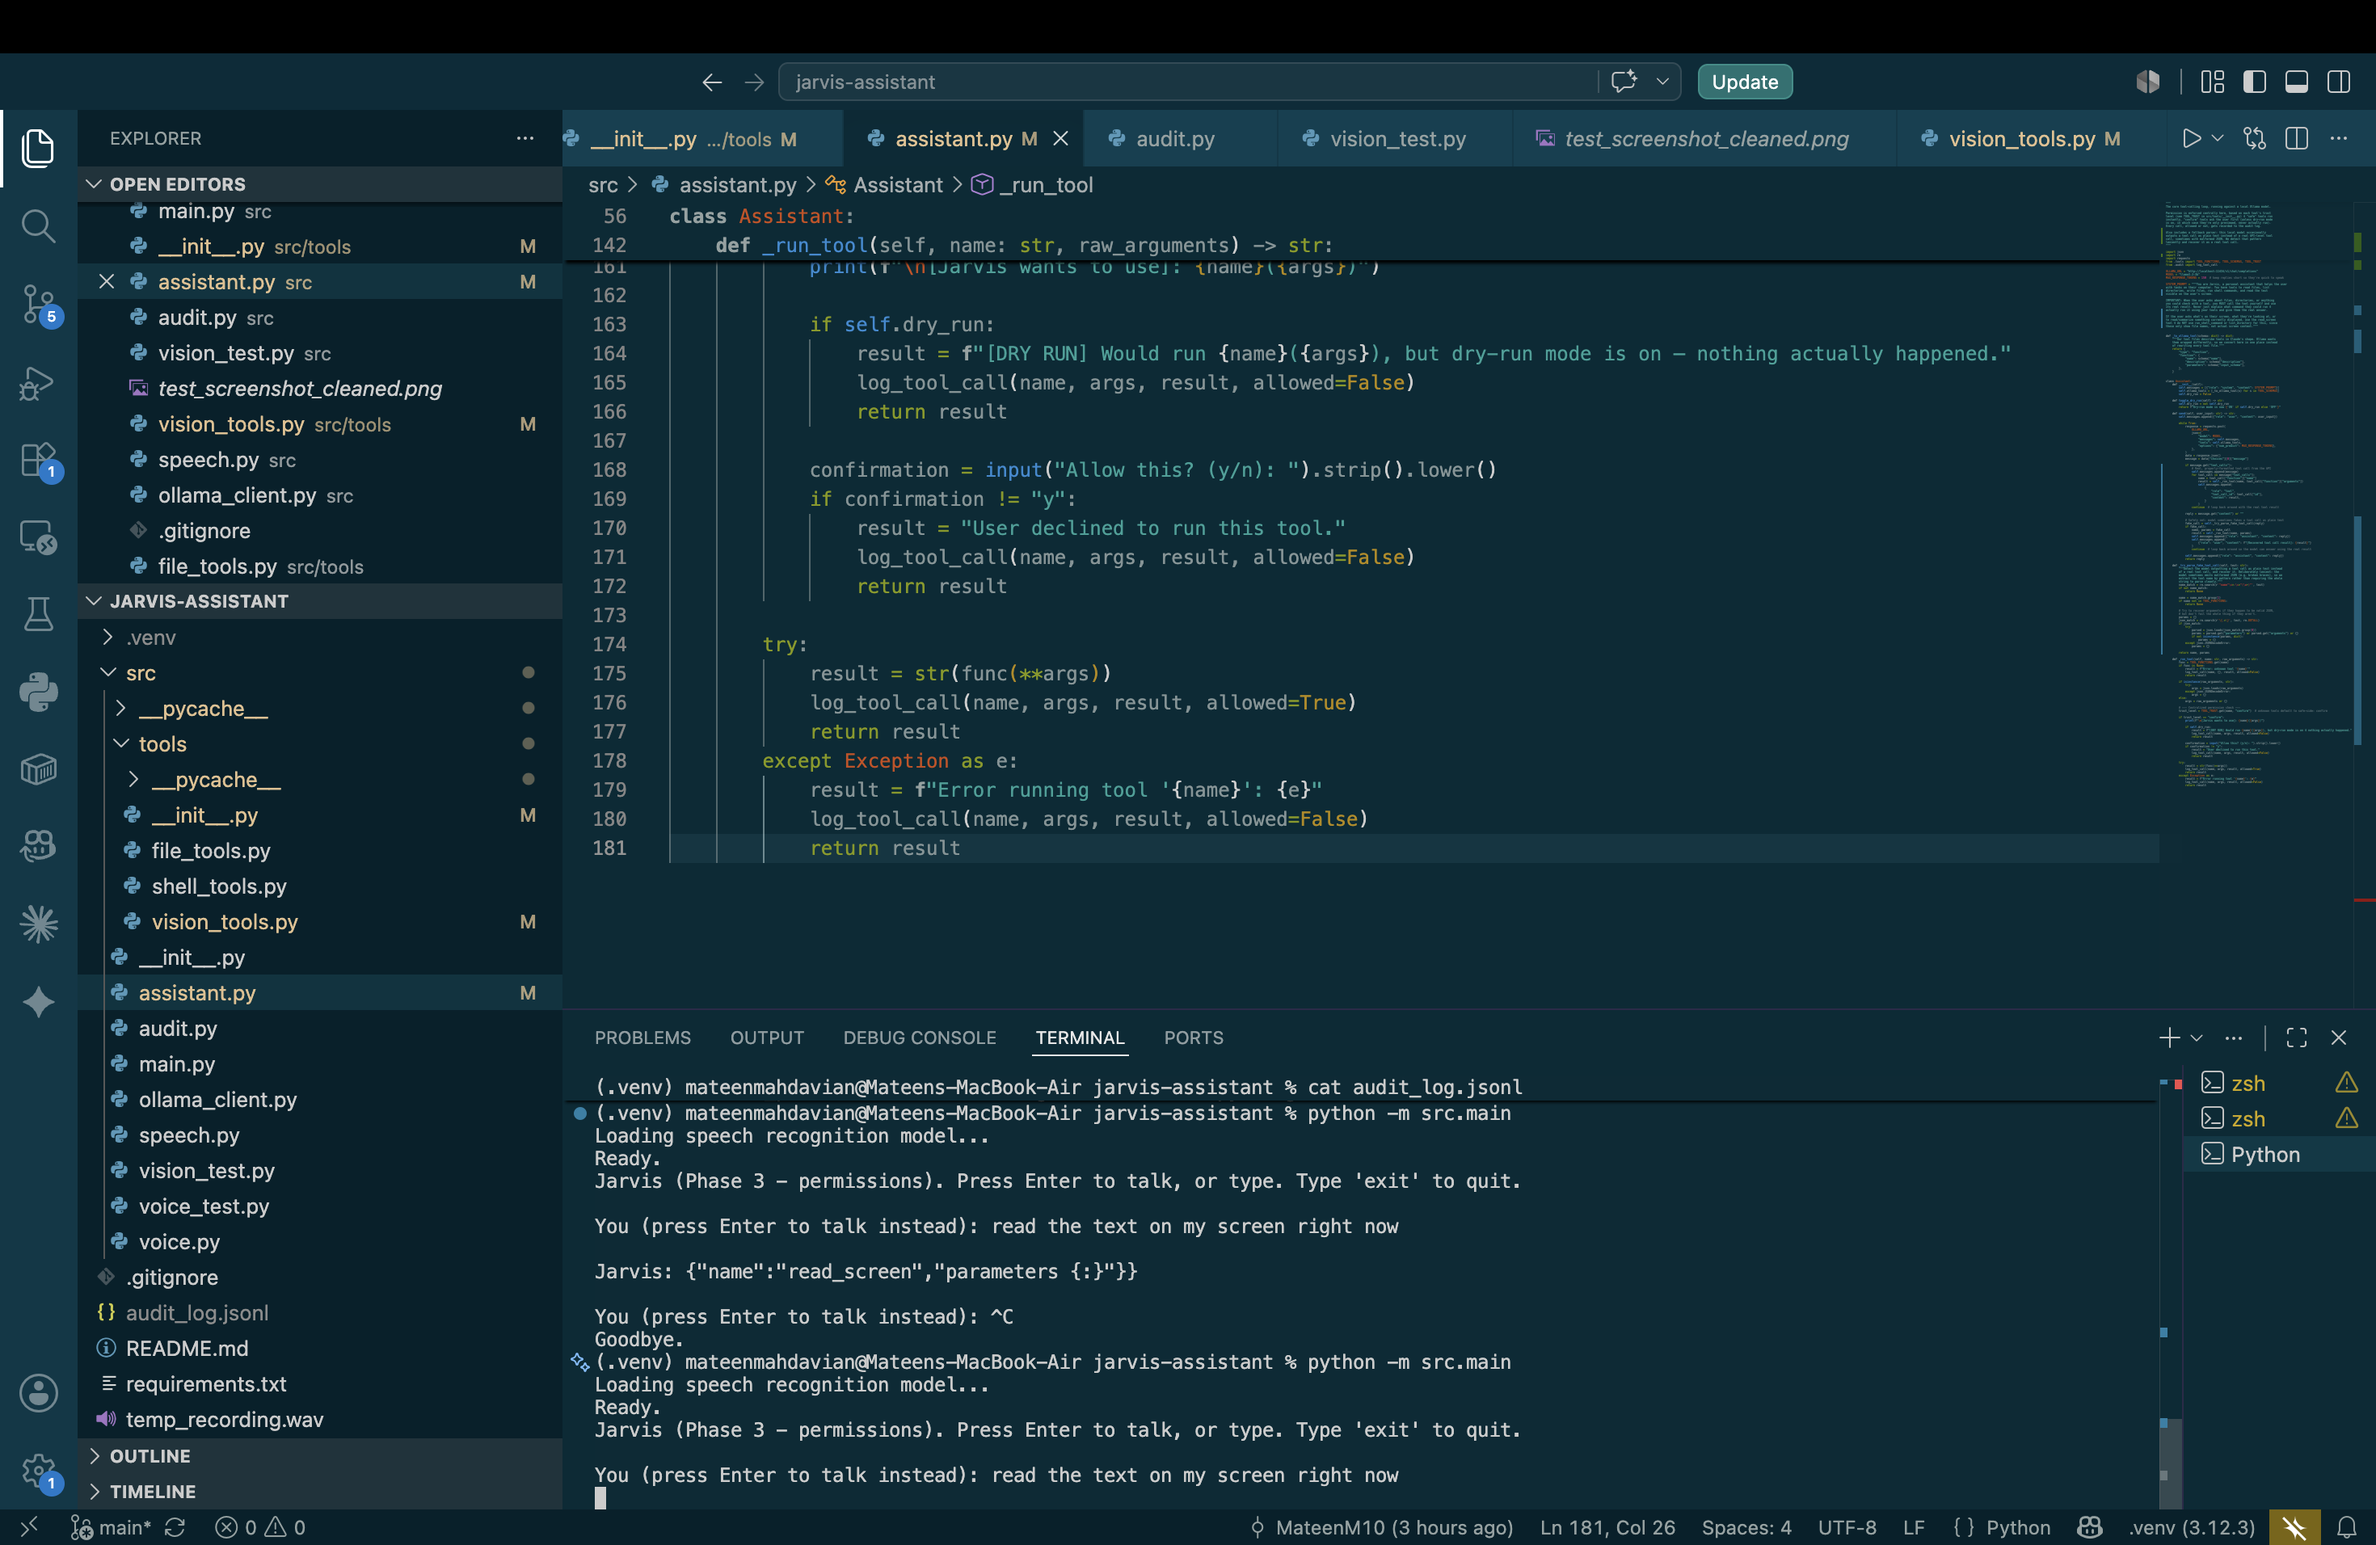
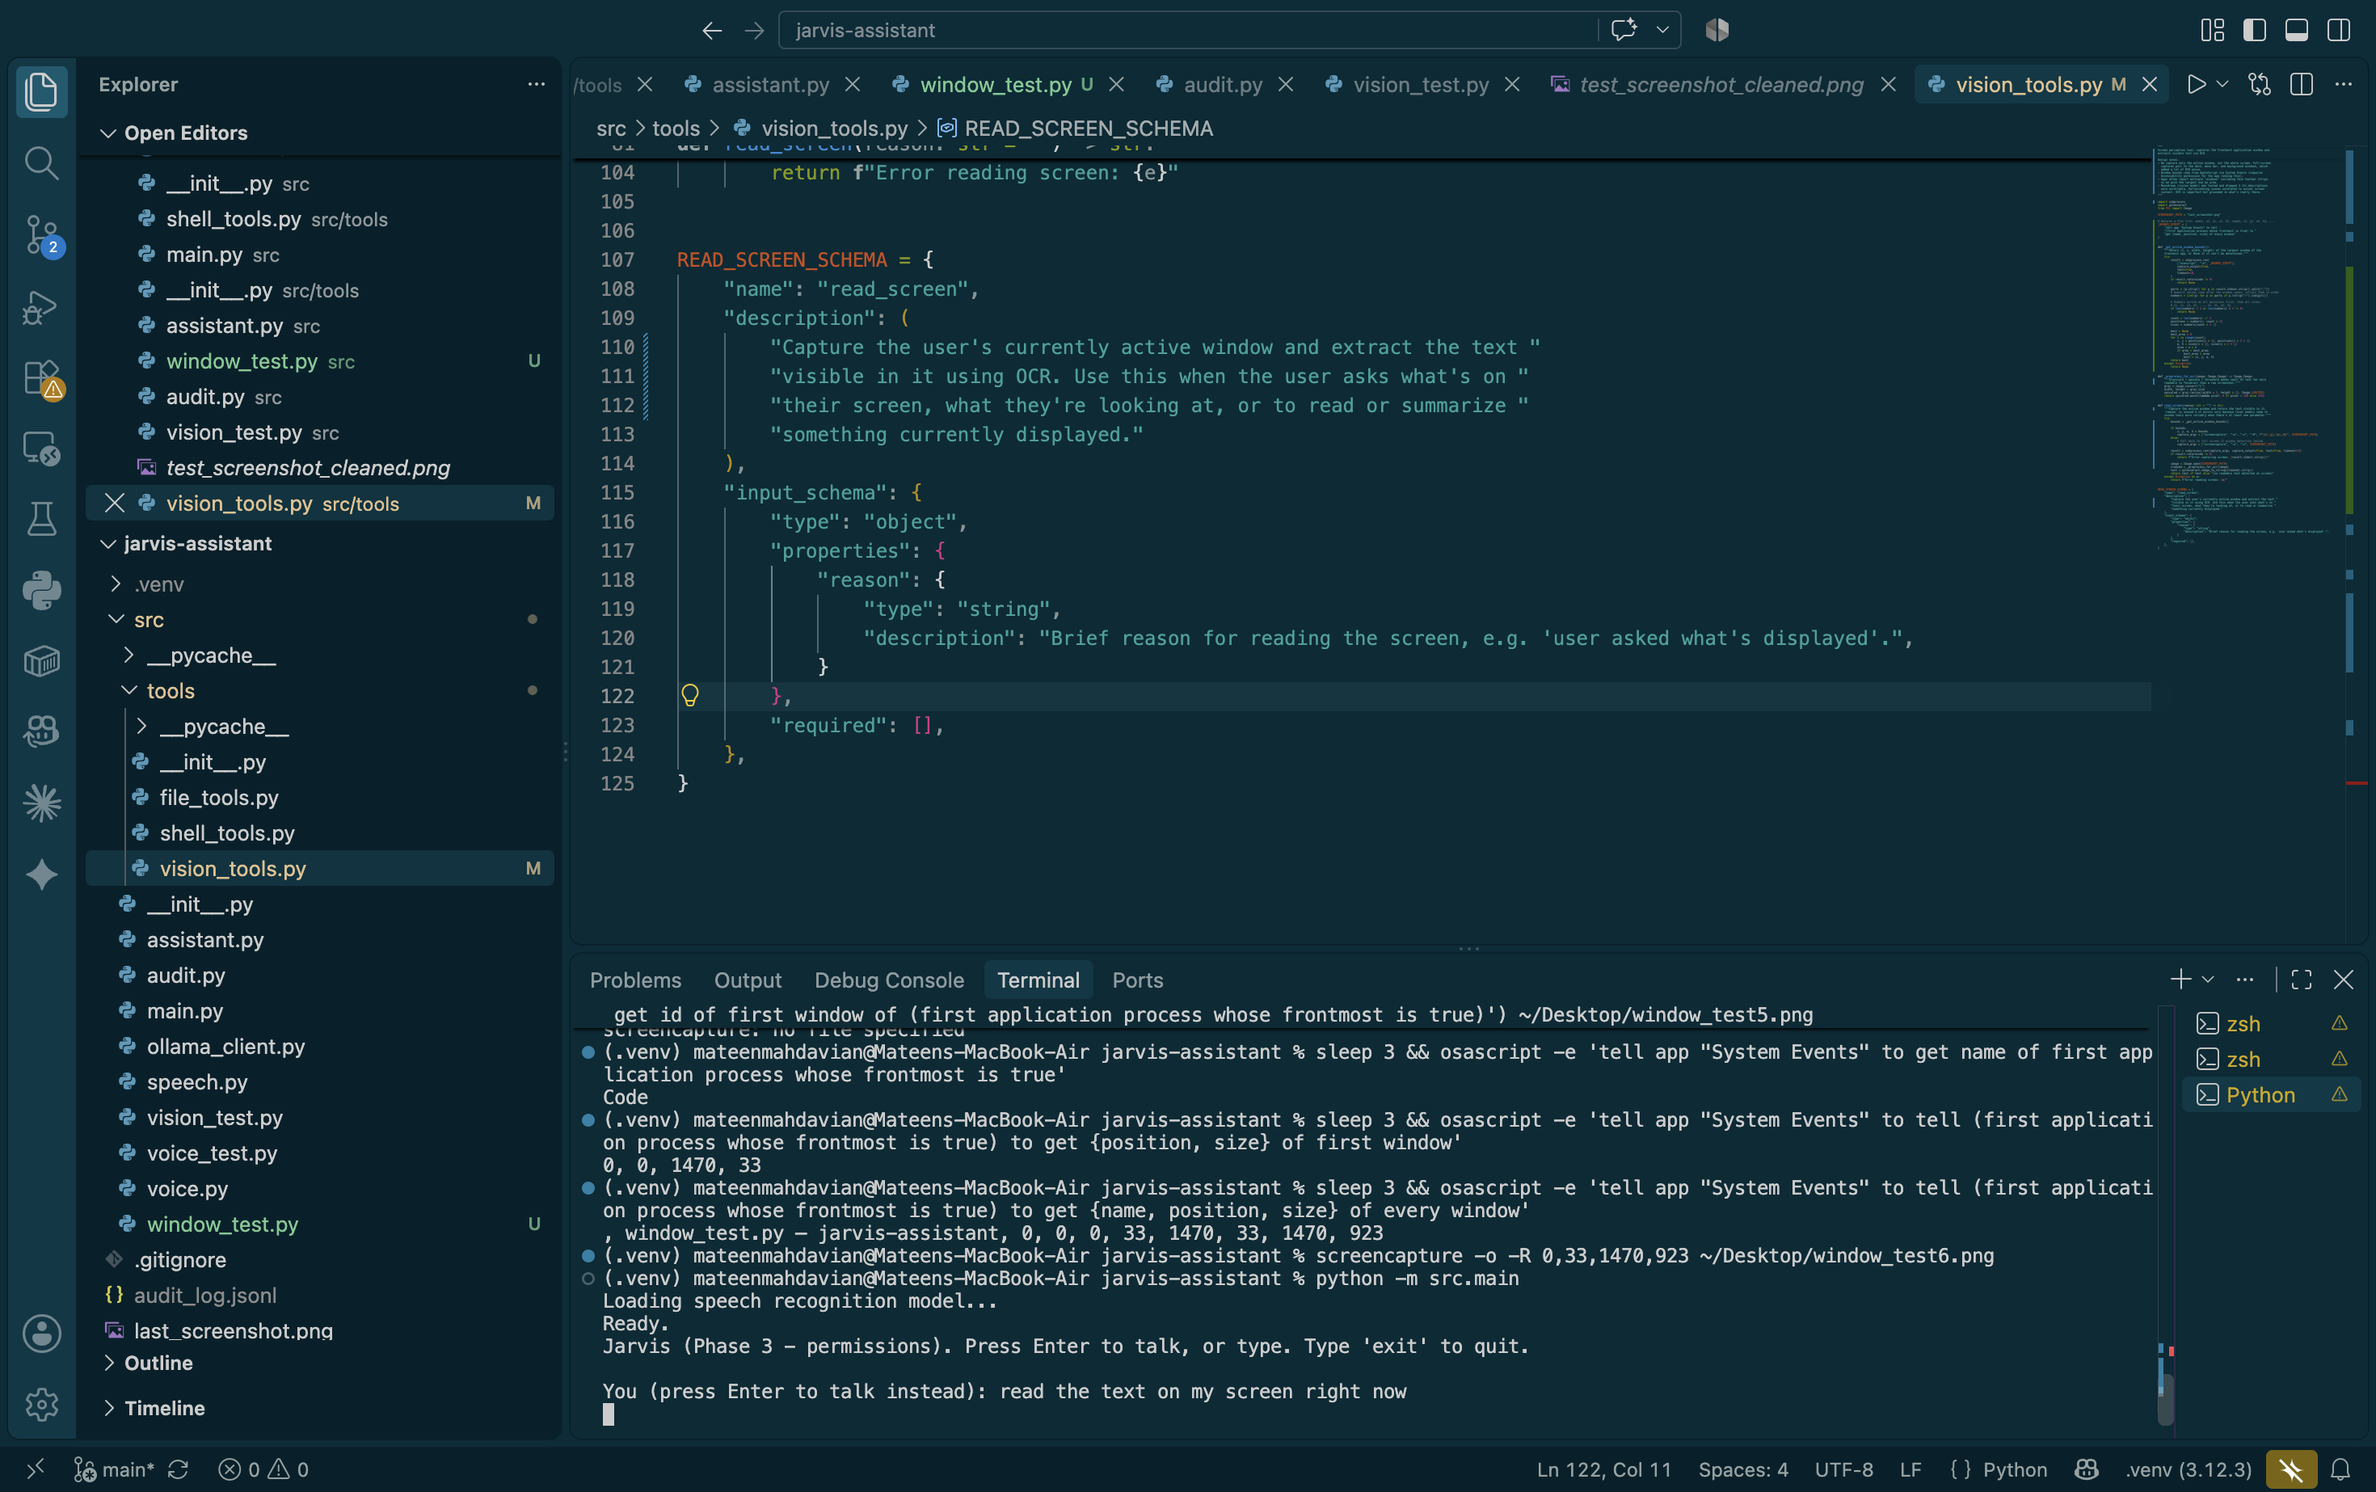
capture active window only for cleaner OCR results

diff --git a/src/tools/vision_tools.py b/src/tools/vision_tools.py
@@ -1,25 +1,77 @@
 """
-Screen perception tool: takes a screenshot and extracts visible text
-via OCR. Moondream (vision model) was tested and dropped — its
-descriptions were unreliable, hallucinating scenes unrelated to the
-actual screen content. OCR, while imperfect, extracts real text
-reliably enough to be useful.
+Screen perception tool: captures the frontmost application window and
+extracts visible text via OCR.
+
+Design notes:
+- We capture only the active window, not the whole screen. Full-screen
+  captures pull in the dock, menu bar, and background windows, which
+  added a lot of OCR noise.
+- Window bounds come from AppleScript via System Events (requires
+  Accessibility permission for the app running this).
+- Apps often report multiple "windows" including thin toolbar strips,
+  so we pick the largest one by area.
+- Moondream (vision model) was tested and dropped — its descriptions
+  were unreliable, hallucinating scenes unrelated to actual screen
+  content. OCR is imperfect but grounded in what's really there.
 """
 
-import pyautogui
+import subprocess
 import pytesseract
 from PIL import Image
 
 SCREENSHOT_PATH = "last_screenshot.png"
 
+# Returns a flat list: name1, x1, y1, w1, h1, name2, x2, y2, w2, h2, ...
+_BOUNDS_SCRIPT = (
+    'tell app "System Events" to tell '
+    "(first application process whose frontmost is true) to "
+    "get {name, position, size} of every window"
+)
+
+
+def _get_active_window_bounds():
+    """Return (x, y, width, height) of the largest window of the
+    frontmost app, or None if it can't be determined."""
+    try:
+        result = subprocess.run(
+            ["osascript", "-e", _BOUNDS_SCRIPT],
+            capture_output=True,
+            text=True,
+            timeout=10,
+        )
+        if result.returncode != 0:
+            return None
+
+        parts = [p.strip() for p in result.stdout.strip().split(",")]
+        # Numeric values come after the window names; collect them in order
+        numbers = [int(p) for p in parts if p.lstrip("-").isdigit()]
+
+        # Numbers arrive as all positions first, then all sizes:
+        # x1, y1, x2, y2, ..., w1, h1, w2, h2, ...
+        if len(numbers) < 4 or len(numbers) % 4 != 0:
+            return None
+
+        count = len(numbers) // 4
+        positions = numbers[: count * 2]
+        sizes = numbers[count * 2 :]
+
+        best = None
+        best_area = 0
+        for i in range(count):
+            x, y = positions[i * 2], positions[i * 2 + 1]
+            w, h = sizes[i * 2], sizes[i * 2 + 1]
+            area = w * h
+            if area > best_area:
+                best_area = area
+                best = (x, y, w, h)
+        return best
+    except Exception:
+        return None
+
 
 def _preprocess_for_ocr(image: Image.Image) -> Image.Image:
-    """Clean up a screenshot to make text extraction more reliable.
-
-    - Grayscale: color isn't needed for reading text and adds noise.
-    - Upscale 2x: small UI text is often too small to read at native size.
-    - Threshold: turns it into clean black-on-white, what OCR expects.
-    """
+    """Grayscale + upscale + threshold makes small UI text far more
+    readable to Tesseract than a raw screenshot."""
     gray = image.convert("L")
     width, height = gray.size
     upscaled = gray.resize((width * 2, height * 2), Image.LANCZOS)
@@ -27,13 +79,25 @@ def _preprocess_for_ocr(image: Image.Image) -> Image.Image:
 
 
 def read_screen(reason: str = "") -> str:
-    """Take a screenshot and return the text visible on screen.
+    """Capture the active window and return the text visible in it.
     'reason' is unused — it exists only because local models seem to
     invoke tools more reliably when there's at least one parameter."""
     try:
-        screenshot = pyautogui.screenshot()
-        screenshot.save(SCREENSHOT_PATH)
-        cleaned = _preprocess_for_ocr(screenshot)
+        bounds = _get_active_window_bounds()
+
+        if bounds:
+            x, y, w, h = bounds
+            capture_args = ["screencapture", "-o", "-x", "-R", f"{x},{y},{w},{h}", SCREENSHOT_PATH]
+        else:
+            # Fall back to full screen if window detection failed
+            capture_args = ["screencapture", "-o", "-x", SCREENSHOT_PATH]
+
+        result = subprocess.run(capture_args, capture_output=True, text=True, timeout=15)
+        if result.returncode != 0:
+            return f"Error capturing screen: {result.stderr.strip()}"
+
+        image = Image.open(SCREENSHOT_PATH)
+        cleaned = _preprocess_for_ocr(image)
         text = pytesseract.image_to_string(cleaned).strip()
         return text if text else "(no readable text detected on screen)"
     except Exception as e:
@@ -43,9 +107,9 @@ def read_screen(reason: str = "") -> str:
 READ_SCREEN_SCHEMA = {
     "name": "read_screen",
     "description": (
-        "Take a screenshot of the user's current screen and extract any "
-        "visible text using OCR. Use this when the user asks what's on "
-        "their screen, what they're looking at, or to read/summarize "
+        "Capture the user's currently active window and extract the text "
+        "visible in it using OCR. Use this when the user asks what's on "
+        "their screen, what they're looking at, or to read or summarize "
         "something currently displayed."
     ),
     "input_schema": {

diff --git a/src/window_test.py b/src/window_test.py
@@ -1,0 +1,22 @@
+"""Test: can we detect the active window's position and size?"""
+
+import pyautogui
+import time
+
+print("Click on the window you want to capture. Capturing in 3 seconds...")
+time.sleep(3)
+
+window = pyautogui.getActiveWindow()
+
+if window is None:
+    print("Could not detect active window.")
+else:
+    print(f"Window title: {window.title}")
+    print(f"Position: left={window.left}, top={window.top}")
+    print(f"Size: width={window.width}, height={window.height}")
+
+    screenshot = pyautogui.screenshot(
+        region=(window.left, window.top, window.width, window.height)
+    )
+    screenshot.save("window_test3.png")
+    print("Saved cropped screenshot to window_test3.png")
